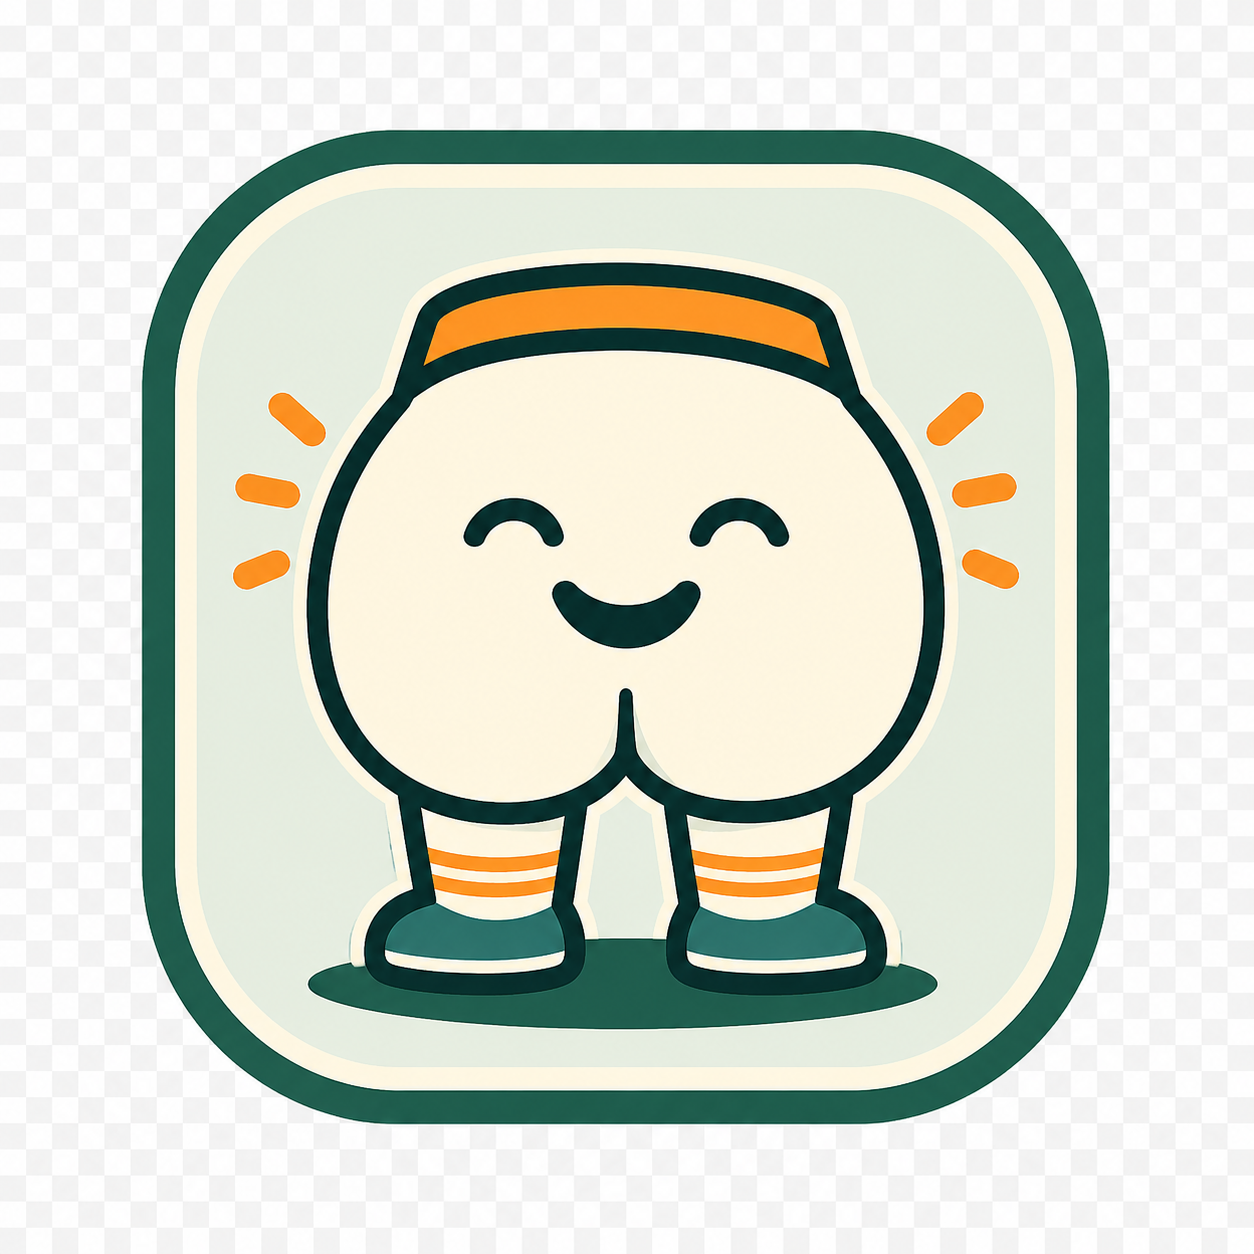
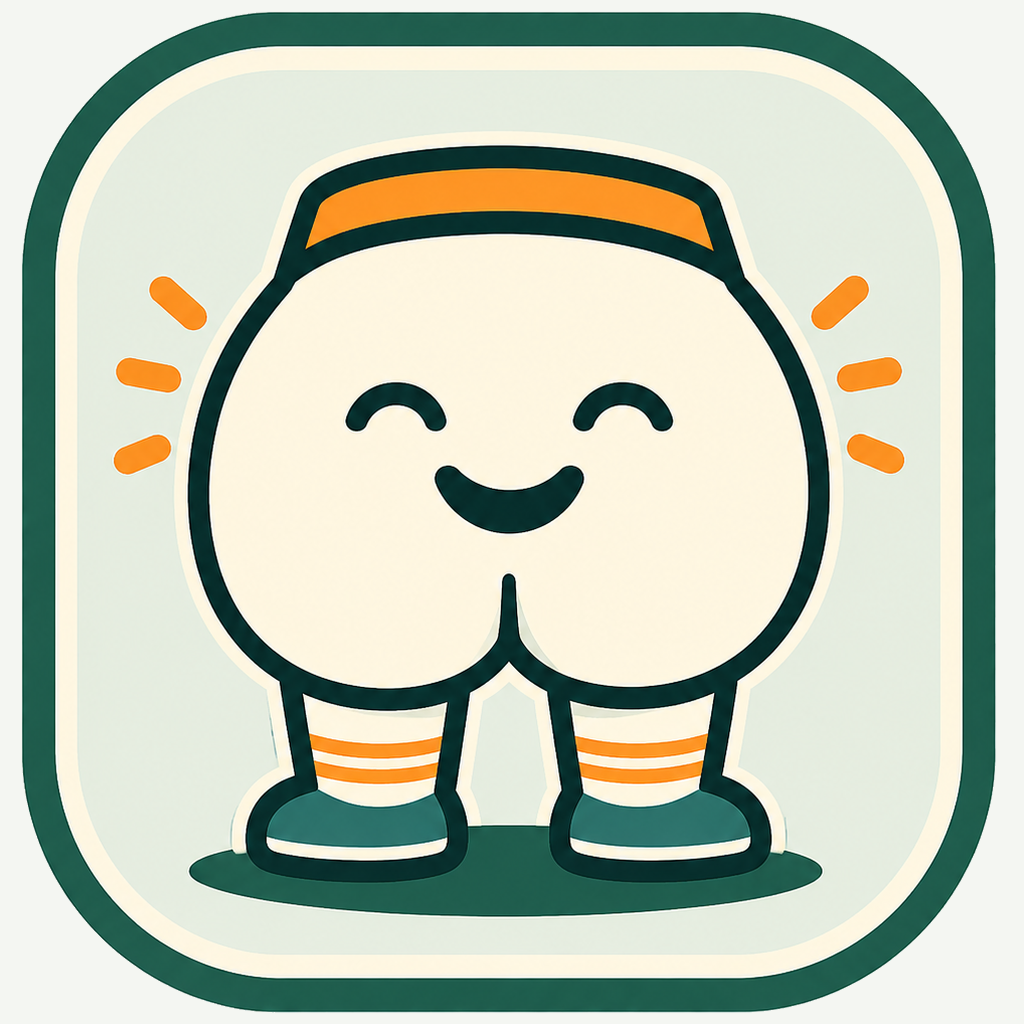
siste versjon

diff --git a/index.html b/index.html
@@ -8,7 +8,11 @@
     <link rel="preconnect" href="https://fonts.gstatic.com" crossorigin>
     <meta name="description" content="Tribunesliter — les og vurder tribuneplasser, haller og utebaner." />
     <link rel="manifest" href="/manifest.webmanifest" />
-    <link rel="icon" href="/icon.svg" type="image/svg+xml" />
+    <link rel="icon" href="/favicon.png" type="image/png" />
+    <link rel="apple-touch-icon" href="/apple-touch-icon.png" />
+    <meta name="mobile-web-app-capable" content="yes" />
+    <meta name="apple-mobile-web-app-capable" content="yes" />
+    <meta name="apple-mobile-web-app-title" content="Tribunesliter" />
     <title>Tribunesliter</title>
   </head>
   <body>

diff --git a/public/sw.js b/public/sw.js
@@ -1,5 +1,5 @@
-const CACHE_NAME = 'tribunesliter-app-shell-v2.8';
-const APP_SHELL = ['/', '/manifest.webmanifest', '/icon.svg'];
+const CACHE_NAME = 'tribunesliter-app-shell-v2.11';
+const APP_SHELL = ['/', '/manifest.webmanifest', '/favicon.png', '/apple-touch-icon.png', '/icon-192.png', '/icon-512.png', '/icon-maskable-512.png', '/assets/glad-rumpe-icon.png'];
 
 self.addEventListener('install', (event) => {
   event.waitUntil(caches.open(CACHE_NAME).then((cache) => cache.addAll(APP_SHELL)));